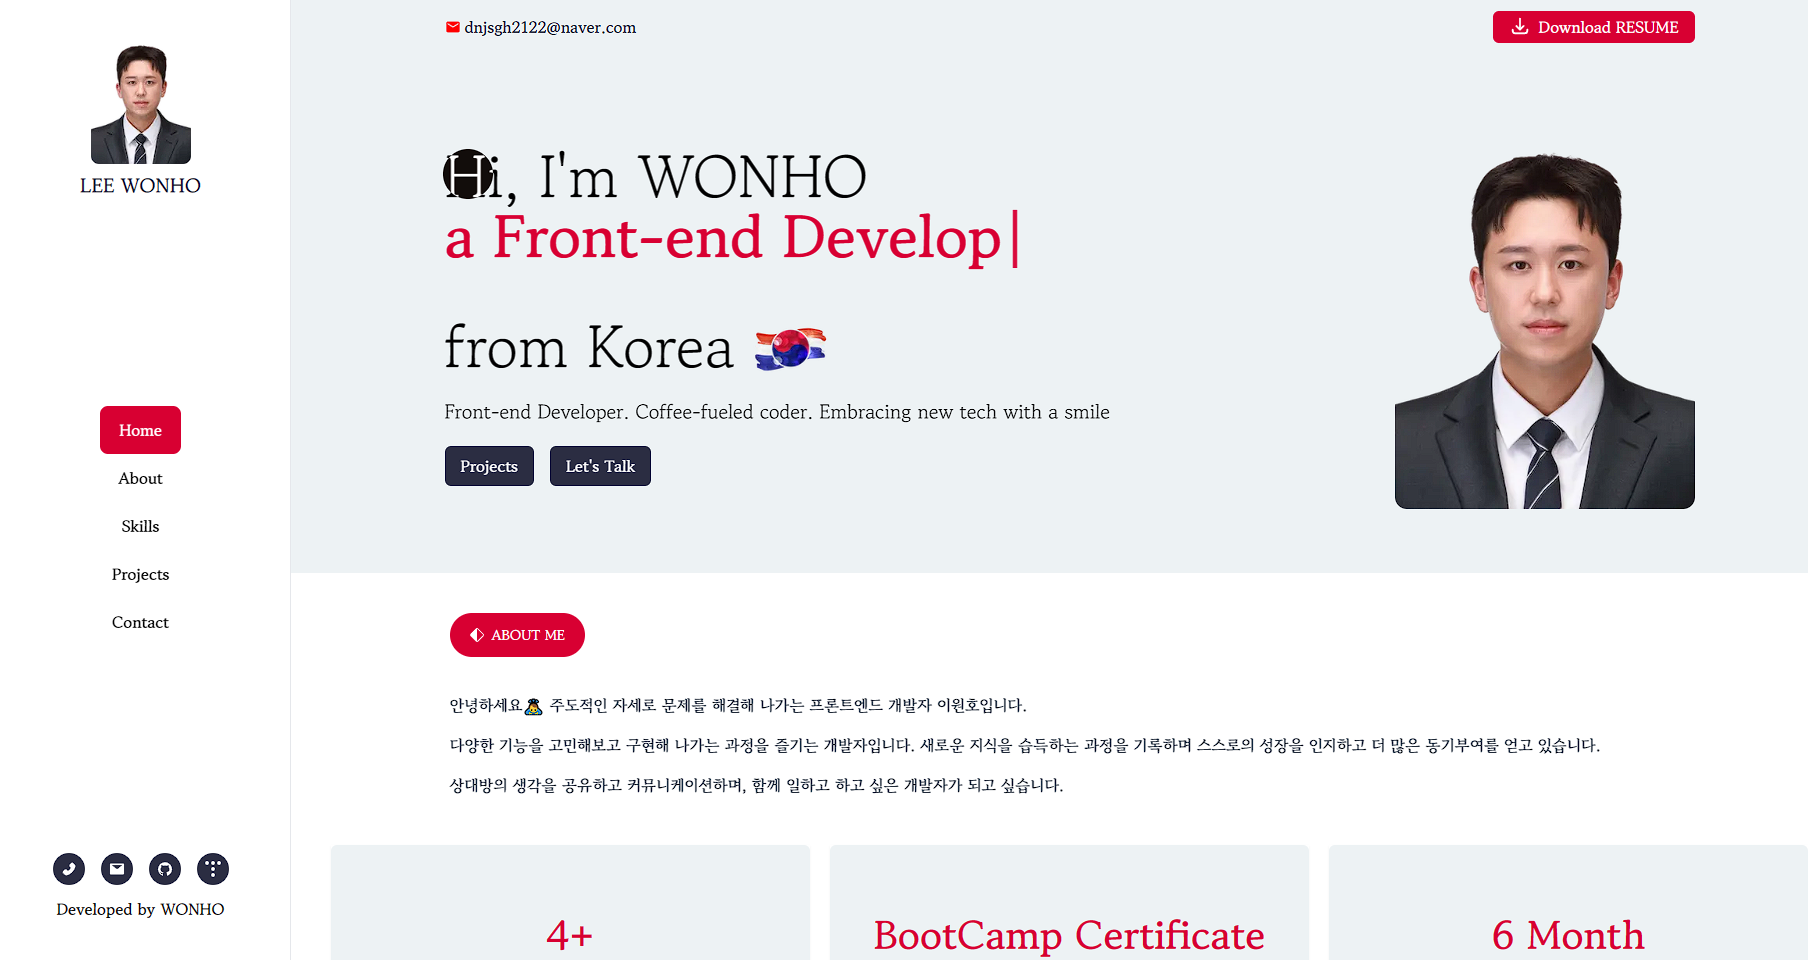
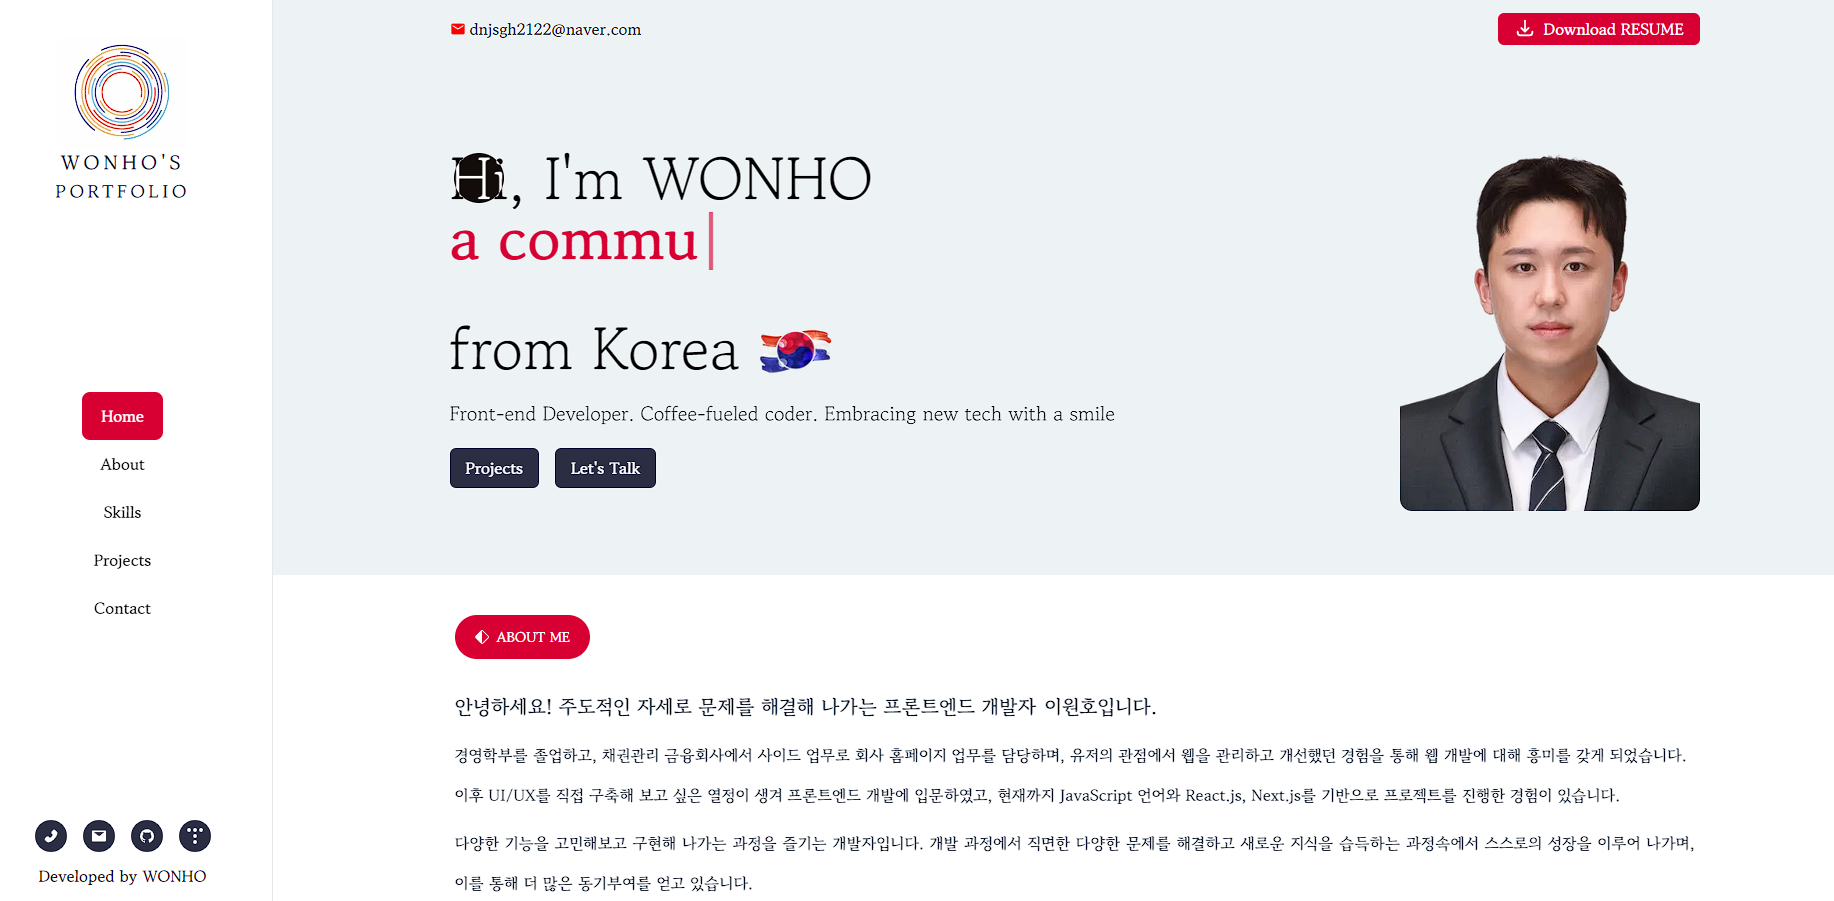
[Design] 1. 프로젝트 이미지 변경, 2. about 소개글 content 및 css 수정, 3. project image 불필요한 margin 제거

diff --git a/components/About.jsx b/components/About.jsx
@@ -21,18 +21,33 @@ const About = () => {
         <div className="mt-7">
           <motion.div
             ref={ref}
-            className="mt-6 text-gray-800 text--[20px] leading-10 text-justify font-bold"
+            className="mt-6 text-gray-800 text-[16px] leading-10 text-justify font-bold"
             initial={{ x: "-20vw" }}
             animate={{ x: isInView ? 0 : "-20vw" }}
             transition={{ duration: 1 }}
           >
-            안녕하세요🙇 주도적인 자세로 문제를 해결해 나가는 프론트엔드 개발자
-            이원호입니다. <br />
+            <p className="text-[20px] mb-2">
+              안녕하세요! 주도적인 자세로 문제를 해결해 나가는 프론트엔드 개발자
+              <span className=" ml-2">이원호</span>
+              입니다.
+            </p>
+            <p>
+              경영학부를 졸업하고, 채권관리 금융회사에서 사이드 업무로 회사
+              홈페이지 업무를 담당하며, 유저의 관점에서 웹을 관리하고 개선했던
+              경험을 통해 웹 개발에 대해 흥미를 갖게 되었습니다.
+            </p>
+            <p className="mb-2">
+              이후 UI/UX를 직접 구축해 보고 싶은 열정이 생겨 프론트엔드 개발에
+              입문하였고, 현재까지 JavaScript 언어와 React.js, Next.js를
+              기반으로 프로젝트를 진행한 경험이 있습니다.
+            </p>
             다양한 기능을 고민해보고 구현해 나가는 과정을 즐기는 개발자입니다.
-            새로운 지식을 습득하는 과정을 기록하며 스스로의 성장을 인지하고 더
-            많은 동기부여를 얻고 있습니다.
-            <br /> 상대방의 생각을 공유하고 커뮤니케이션하며, 함께 일하고 하고
-            싶은 개발자가 되고 싶습니다.
+            개발 과정에서 직면한 다양한 문제를 해결하고 새로운 지식을 습득하는
+            과정속에서 스스로의 성장을 이루어 나가며, 이를 통해 더 많은
+            동기부여를 얻고 있습니다.
+            <br /> 앞으로도 끊임없이 관찰하고 고민하는 개발자의 여정에 있어서,
+            항상 배움을 소중히 여기는 자세를 바탕으로 성장해 나갈 목표를 가지고
+            있습니다.
           </motion.div>
         </div>
       </div>
@@ -46,7 +61,7 @@ const About = () => {
                 x: isInView2 ? 0 : "-30vw",
                 rotateY: isFlipped ? 180 : 0,
               }}
-              transition={{ duration: 1.2 }}
+              transition={{ duration: 0.6 }}
               onMouseEnter={() => setIsFlipped(true)}
               onMouseLeave={() => setIsFlipped(false)}
             >
@@ -75,7 +90,7 @@ const About = () => {
                 x: isInView2 ? 0 : "-30vw",
                 rotateY: isFlipped2 ? 180 : 0,
               }}
-              transition={{ duration: 1.2 }}
+              transition={{ duration: 0.6 }}
               onMouseEnter={() => setIsFlipped2(true)}
               onMouseLeave={() => setIsFlipped2(false)}
             >

diff --git a/components/ProjectCard.jsx b/components/ProjectCard.jsx
@@ -33,7 +33,7 @@ const ProjectCard = ({ name, githubUrl, image, deployUrl, order }) => {
         <img
           src={image}
           alt={`${name} Image`}
-          className="mb-2 rounded-md"
+          className="rounded-md"
           style={{ objectFit: "fill" }}
         />
       </div>
